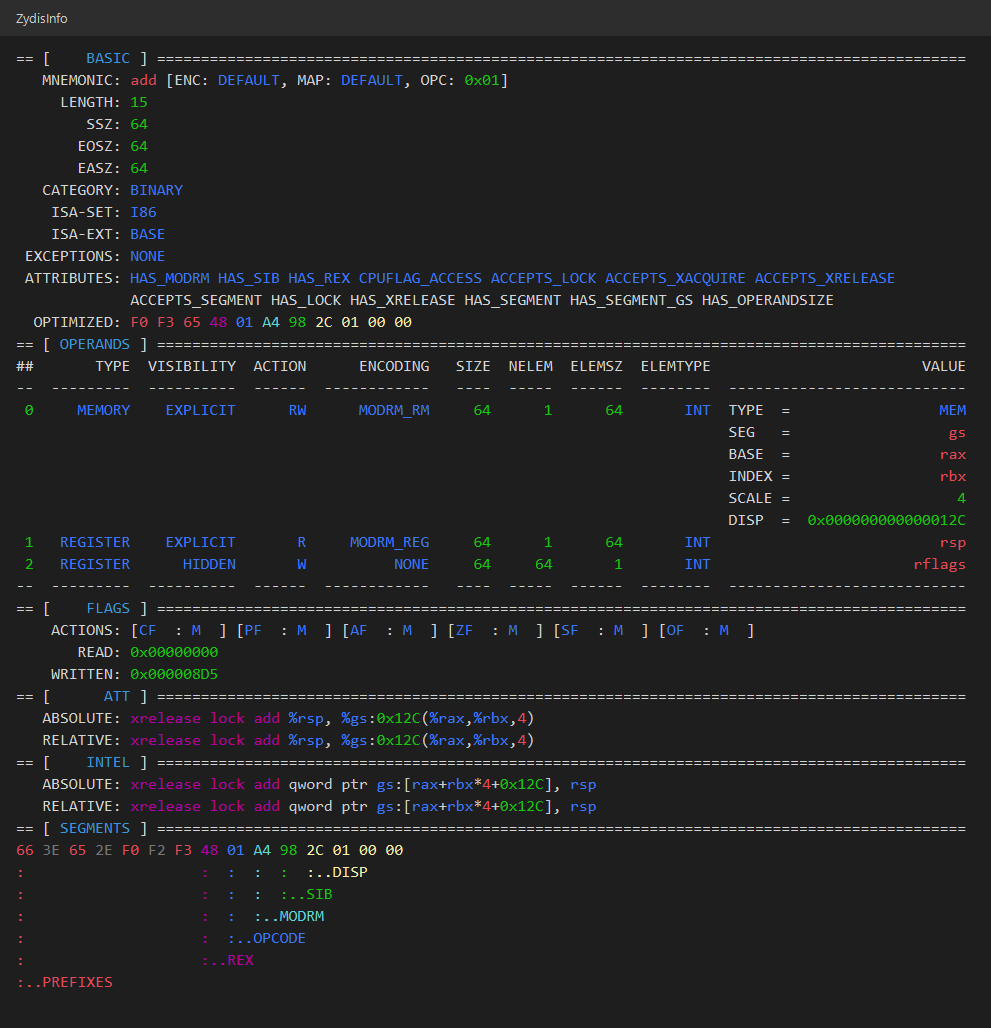
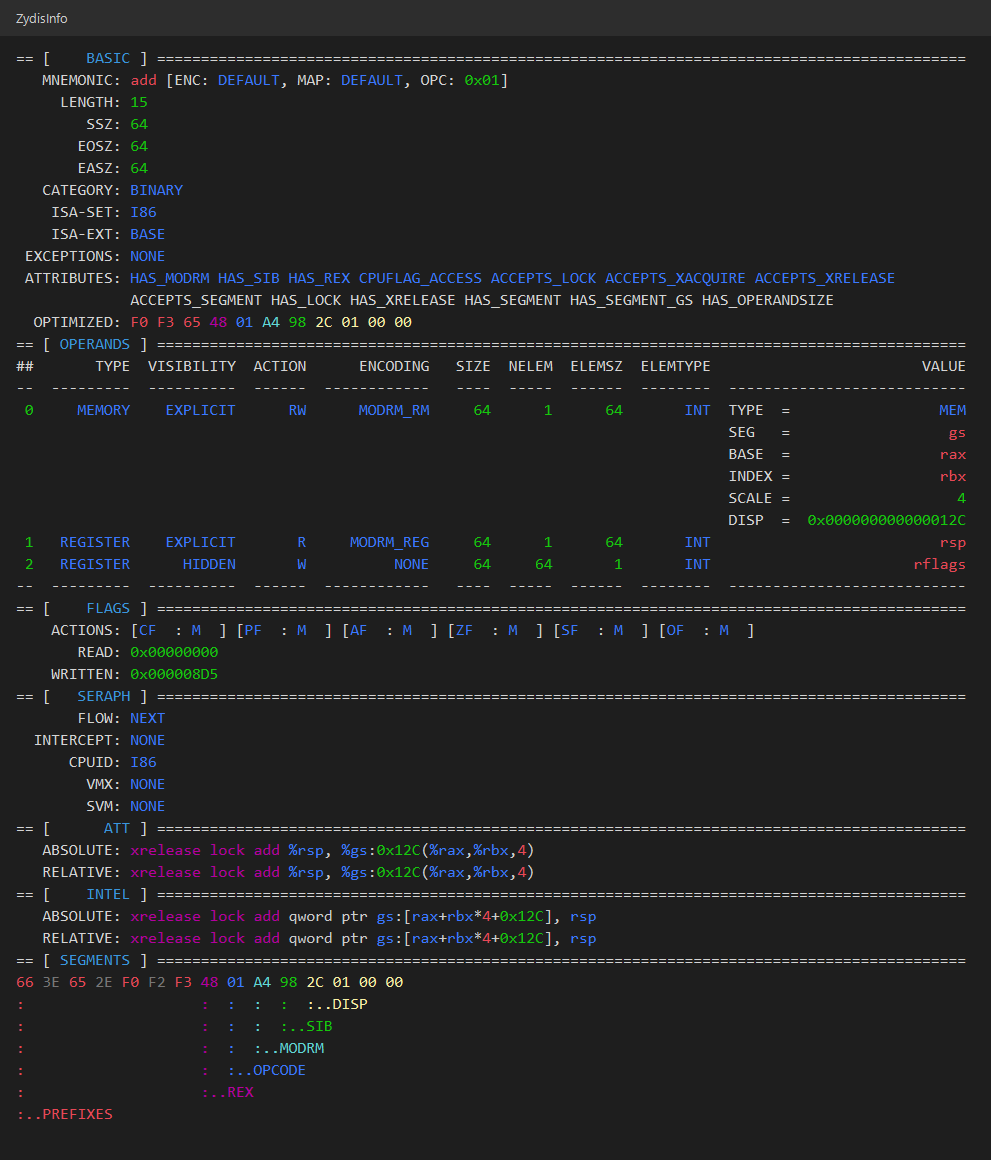
Print Seraph fields in ZydisInfo and drop the workspace notes from the README.
ZydisInfo now has a SERAPH section for flow, condition, intercept, CPUID feature names, and the VM-exit record. The README picture is that tool output.

Changed region(s): [[0.0, 0.0311, 0.9687, 0.965], [0.0303, 0.9339, 0.1211, 0.965], [0.0, 0.0, 0.0605, 0.0311]]

diff --git a/tools/ZydisInfo.c b/tools/ZydisInfo.c
@@ -961,6 +961,106 @@ static void PrintDisassembly(const ZydisDecodedInstruction* instruction,
 }
 
 /**
+ * Prints the optional Seraph fields in the same value style as the rest of the tool.
+ */
+static void PrintSeraph(const ZydisDecodedInstruction* instruction,
+    const ZydisDecodedOperand* operands)
+{
+    static const char* const flow_names[] =
+    {
+        "NEXT", "CONDITIONAL-BRANCH", "UNCONDITIONAL-BRANCH", "INDIRECT-BRANCH",
+        "CALL", "INDIRECT-CALL", "RETURN", "INTERRUPT", "SYSCALL", "XBEGIN",
+        "EXCEPTION", "PRIVILEGED"
+    };
+    static const char* const intercept_names[] =
+    {
+        "NONE", "IO", "MSR", "DESCRIPTOR", "VMX", "SVM"
+    };
+    static const char* const cc_names[] =
+    {
+        "O", "NO", "B", "AE", "E", "NE", "BE", "A",
+        "S", "NS", "P", "NP", "L", "GE", "LE", "G"
+    };
+    static const char* const vmx_controls[] =
+    {
+        "NONE", "UNCONDITIONAL", "CPUID", "HLT", "INVLPG", "RDPMC", "RDTSC",
+        "CR3-LOAD", "CR3-STORE", "CR8-LOAD", "CR8-STORE", "CR-MASK", "MOV-DR",
+        "IO", "MSR", "MONITOR", "MWAIT", "PAUSE", "DESCRIPTOR", "WBINVD",
+        "RDRAND", "RDSEED", "INVPCID", "XSS"
+    };
+    static const char* const svm_controls[] =
+    {
+        "NONE", "INTERCEPT", "CR", "DR"
+    };
+    ZydisInstructionInfo info;
+    ZydisConditionCodeInfo cc;
+    ZydisCpuidFlag cpuid_flags[ZYDIS_CPUID_FLAG_MAX_COUNT];
+    ZydisVmExit exit_info;
+    ZyanU8 cpuid_count = 0;
+
+    if (ZYAN_FAILED(ZydisGetInstructionInfo(instruction, operands, instruction->operand_count,
+            &info)))
+    {
+        return;
+    }
+
+    PrintSectionHeader("SERAPH");
+    if (info.flow <= ZYDIS_INSTRUCTION_FLOW_PRIVILEGED)
+    {
+        PRINT_VALUE_B("FLOW", "%s", flow_names[info.flow]);
+    }
+    if (info.intercept <= ZYDIS_INSTRUCTION_INTERCEPT_SVM)
+    {
+        PRINT_VALUE_B("INTERCEPT", "%s", intercept_names[info.intercept]);
+    }
+    if (ZYAN_SUCCESS(ZydisGetConditionCode(instruction->mnemonic, &cc)) &&
+        (cc.code <= ZYDIS_CONDITION_CODE_G))
+    {
+        PRINT_VALUE_G("CONDITION", "%s", cc_names[cc.code]);
+    }
+    if (ZYAN_SUCCESS(ZydisGetCpuidFlags(instruction, cpuid_flags, ZYDIS_CPUID_FLAG_MAX_COUNT,
+            &cpuid_count)) && (cpuid_count > 0))
+    {
+        ZyanU8 i;
+
+        PrintValueLabel("CPUID");
+        ZYAN_FPUTS(CVT100_OUT(COLOR_VALUE_B), ZYAN_STDOUT);
+        for (i = 0; i < cpuid_count; ++i)
+        {
+            const char* name = ZydisCpuidFlagGetString(cpuid_flags[i]);
+            ZYAN_PRINTF("%s%s", name ? name : "?", (i + 1 < cpuid_count) ? " " : "");
+        }
+        ZYAN_PUTS(CVT100_OUT(COLOR_DEFAULT));
+    }
+    if (info.fpu_top_written)
+    {
+        PRINT_VALUE_G("FPU-TOP", "%s", "WRITTEN");
+    }
+    if (ZYAN_FAILED(ZydisGetVmExit(instruction, operands, instruction->operand_count, &exit_info)))
+    {
+        return;
+    }
+    if (exit_info.vmx && (exit_info.vmx_control <= ZYDIS_VMX_CONTROL_XSS))
+    {
+        PRINT_VALUE_G("VMX-REASON", "%u", exit_info.vmx_reason);
+        PRINT_VALUE_B("VMX-CTRL", "%s", vmx_controls[exit_info.vmx_control]);
+    }
+    else
+    {
+        PRINT_VALUE_B("VMX", "%s", "NONE");
+    }
+    if (exit_info.svm && (exit_info.svm_control <= ZYDIS_SVM_CONTROL_DR))
+    {
+        PRINT_VALUE_G("SVM-CODE", "0x%X", exit_info.svm_code);
+        PRINT_VALUE_B("SVM-CTRL", "%s", svm_controls[exit_info.svm_control]);
+    }
+    else
+    {
+        PRINT_VALUE_B("SVM", "%s", "NONE");
+    }
+}
+
+/**
  * Dumps basic instruction info.
  *
  * @param   decoder     A pointer to the `ZydisDecoder` instance.
@@ -1213,6 +1313,9 @@ static void PrintInstruction(const ZydisDecoder* decoder,
         ZYAN_PUTS("");
         PrintAPXInfo(instruction);
     }
+
+    ZYAN_PUTS("");
+    PrintSeraph(instruction, operands);
 
     ZYAN_PUTS("");
     PrintDisassembly(instruction, operands, ZYDIS_FORMATTER_STYLE_ATT);

diff --git a/src/CpuidFlags.c b/src/CpuidFlags.c
@@ -289,3 +289,188 @@ ZyanStatus ZydisGetCpuidFlags(const ZydisDecodedInstruction* instruction,
     }
     return ZYAN_STATUS_SUCCESS;
 }
+
+static const char* const ZYDIS_CPUID_FLAG_NAMES[] =
+{
+    "NONE",
+    "ADOX_ADCX",
+    "ADX",
+    "AES",
+    "AMD",
+    "AMD3DNOW",
+    "AMD_INVLPGB",
+    "AMX",
+    "AMX_BF16",
+    "AMX_FP16",
+    "AMX_INT8",
+    "AMX_TILE",
+    "APX_F",
+    "AVX",
+    "AVX2",
+    "AVX2GATHER",
+    "AVX512BW",
+    "AVX512CD",
+    "AVX512DQ",
+    "AVX512ER",
+    "AVX512F",
+    "AVX512PF",
+    "AVX512VL",
+    "AVX512_4FMAPS",
+    "AVX512_4VNNIW",
+    "AVX512_BF16",
+    "AVX512_BITALG",
+    "AVX512_FP16",
+    "AVX512_GFNI",
+    "AVX512_IFMA",
+    "AVX512_VAES",
+    "AVX512_VBMI",
+    "AVX512_VBMI2",
+    "AVX512_VNNI",
+    "AVX512_VP2INTERSECT",
+    "AVX512_VPCLMULQDQ",
+    "AVX512_VPOPCNTDQ",
+    "AVXAES",
+    "AVX_GFNI",
+    "AVX_IFMA",
+    "AVX_NE_CONVERT",
+    "AVX_VNNI",
+    "AVX_VNNI_INT16",
+    "AVX_VNNI_INT8",
+    "BMI1",
+    "BMI2",
+    "CET",
+    "CLDEMOTE",
+    "CLFLUSHOPT",
+    "CLFSH",
+    "CLWB",
+    "CLZERO",
+    "CMOV",
+    "CMPCCXADD",
+    "CMPXCHG16B",
+    "ENQCMD",
+    "F16C",
+    "FAT_NOP",
+    "FCMOV",
+    "FCOMI",
+    "FMA",
+    "FMA4",
+    "FRED",
+    "FXSAVE",
+    "FXSAVE64",
+    "GFNI",
+    "HRESET",
+    "I186",
+    "I286PROTECTED",
+    "I286REAL",
+    "I386",
+    "I486",
+    "I486REAL",
+    "I86",
+    "ICACHE_PREFETCH",
+    "INVPCID",
+    "KEYLOCKER",
+    "KEYLOCKER_WIDE",
+    "KNCE",
+    "KNCJKBR",
+    "KNCSTREAM",
+    "KNCV",
+    "KNC_MISC",
+    "KNC_PF_HINT",
+    "KOPB",
+    "KOPD",
+    "KOPQ",
+    "KOPW",
+    "LAHF",
+    "LKGS",
+    "LONGMODE",
+    "LWP",
+    "LZCNT",
+    "MCOMMIT",
+    "MONITOR",
+    "MONITORX",
+    "MOVBE",
+    "MOVDIR",
+    "MOVDIR64B",
+    "MOVDIRI",
+    "MPX",
+    "MSRLIST",
+    "PADLOCK_ACE",
+    "PADLOCK_PHE",
+    "PADLOCK_PMM",
+    "PADLOCK_RNG",
+    "PAUSE",
+    "PBNDKB",
+    "PCLMULQDQ",
+    "PCOMMIT",
+    "PCONFIG",
+    "PENTIUMMMX",
+    "PENTIUMREAL",
+    "PKU",
+    "POPCNT",
+    "PPRO",
+    "PREFETCHWT1",
+    "PREFETCH_NOP",
+    "PT",
+    "RAO_INT",
+    "RDPID",
+    "RDPMC",
+    "RDPRU",
+    "RDRAND",
+    "RDSEED",
+    "RDTSCP",
+    "RDWRFSGS",
+    "RTM",
+    "SERIALIZE",
+    "SGX",
+    "SGX_ENCLV",
+    "SHA",
+    "SHA512",
+    "SM3",
+    "SM4",
+    "SMAP",
+    "SMX",
+    "SNP",
+    "SSE",
+    "SSE2",
+    "SSE2MMX",
+    "SSE3",
+    "SSE3X87",
+    "SSE4",
+    "SSE42",
+    "SSE4A",
+    "SSEMXCSR",
+    "SSE_PREFETCH",
+    "SSSE3",
+    "SSSE3MMX",
+    "SVM",
+    "TBM",
+    "TDX",
+    "TSX_LDTRK",
+    "UINTR",
+    "USER_MSR",
+    "VAES",
+    "VMFUNC",
+    "VMX",
+    "VPCLMULQDQ",
+    "VTX",
+    "WAITPKG",
+    "WRMSRNS",
+    "X87",
+    "XOP",
+    "XSAVE",
+    "XSAVEC",
+    "XSAVEOPT",
+    "XSAVES",
+};
+
+ZYAN_STATIC_ASSERT((sizeof(ZYDIS_CPUID_FLAG_NAMES) / sizeof(ZYDIS_CPUID_FLAG_NAMES[0])) ==
+    (ZYDIS_CPUID_FLAG_MAX_VALUE + 1));
+
+const char* ZydisCpuidFlagGetString(ZydisCpuidFlag flag)
+{
+    if ((ZyanUSize)flag > ZYDIS_CPUID_FLAG_MAX_VALUE)
+    {
+        return ZYAN_NULL;
+    }
+    return ZYDIS_CPUID_FLAG_NAMES[flag];
+}

diff --git a/include/Zydis/CpuidFlags.h b/include/Zydis/CpuidFlags.h
@@ -240,6 +240,11 @@ typedef enum ZydisCpuidFlag_
 ZYDIS_EXPORT ZyanStatus ZydisGetCpuidFlags(const ZydisDecodedInstruction* instruction,
     ZydisCpuidFlag* flags, ZyanU8 capacity, ZyanU8* count);
 
+/**
+ * Returns the name of a CPUID feature flag, or `ZYAN_NULL` when `flag` is out of range.
+ */
+ZYDIS_EXPORT const char* ZydisCpuidFlagGetString(ZydisCpuidFlag flag);
+
 #ifdef __cplusplus
 }
 #endif

diff --git a/docs/SERAPH_FEATURES.md b/docs/SERAPH_FEATURES.md
@@ -12,7 +12,7 @@ Zydis is the project. New instructions and fixes from zyantific land by merging 
 | opcode-cpuid | done | `ZydisGetEncodingInfo`, `ZydisGetCpuidFlags` | Opcode, opcode map, and ModRM are copied from the decoded instruction. `isa_set` and `isa_ext` come from `instruction->meta`. `ZydisGetCpuidFlags` reports that ISA set as feature names. A 128-bit or 256-bit AVX-512 set also reports `AVX512VL`. Null arguments fail. No CPUID leaf numbers. |
 | condition-code | done | `ZydisGetConditionCode`, `ZydisConditionCodeEvaluate` | `jz`, `setz`, `cmovz`, and `setzuz` are E, taken when ZF is 1. `jnbe` is A. `cmovl` is L. The value matches the Jcc opcode nibble. `jrcxz`, `loop`, `fcmovb`, and `ccmpb` have no condition code. |
 | vm-exit | done | `ZydisGetVmExit` | Separate from instruction info. `CPUID` stays flow `NEXT` and intercept `NONE` there. The exit call reports VMX reason 10 with the CPUID control and SVM code `0x72`. `MOV` from `CR3` is reason 28 with the CR3-store control. `VMCALL` is VMX reason 18. A normal `mov` reports neither vendor. |
-| verbose | done | `ZydisFormatVerbose` | One Intel line for `cpuid` includes `flow next`, `intercept none`, `vmx 10 cpuid`, and `svm 0x72 intercept`. `jz` includes `cc e`. A short buffer is left unchanged. |
+| verbose | done | `ZydisInfo` SERAPH section, `ZydisFormatVerbose` | `ZydisInfo` prints flow, condition, intercept, CPUID feature names, and the VM-exit record in the same value rows as the rest of the tool. `cpuid` is flow `NEXT`, intercept `NONE`, VMX reason 10, SVM `0x72`. `jz` is condition `E`. |
 | fast-formatter | optional | Straight-line formatter | `SeraphBench` times decode and decode-plus-format for Intel, AT&T, MASM, and NASM on one fixed long-mode buffer. The fast formatter stays unwritten until that number shows the formatter is the cost. |
 
 `/seraph-feature` takes one of these ids as `args.feature`.

diff --git a/README.md b/README.md
@@ -40,16 +40,9 @@ ctest --test-dir build -C Release --output-on-failure
 
 Merge upstream into `master`. Do not rebase `master`. After a conflict in `CMakeLists.txt`, `meson.build`, `include/Zydis/Zydis.h`, or `msvc/zydis/Zydis.vcxproj`, keep the upstream lines and the Seraph lines.
 
-Workflows in `.grok/workflows/` rebuild, re-run `ctest`, and push `master` when the prove step can quote a green summary:
+`ZydisInfo` prints a `SERAPH` section in the same rows as the rest of the tool. `cpuid` is flow `NEXT` and intercept `NONE`, with VMX reason 10 and SVM code `0x72`. `jz` adds condition `E` and no VM exit.
 
-- `/seraph-build-test`
-- `/seraph-feature` with `args.feature` set to an id from `docs/SERAPH_FEATURES.md`
-
-Open this folder as its own workspace: `grok --cwd` the `seraph` directory. In T3 Code, add the folder with Ctrl+K → Add Project.
-
-Zydis colors the instruction the same way `ZydisInfo` does: a magenta mnemonic, a blue register, a green address, and a red immediate. The cyan text after the bar is what Seraph adds: flow, condition code, intercept, and the VM-exit record. `mov rax, rcx` has no VM exit. `cpuid` stays unprivileged in the normal report and still shows VMX reason 10 and SVM `0x72` here.
-
-![What Seraph adds](./assets/screenshots/SeraphVerbose.png)
+![ZydisInfo SERAPH section](./assets/screenshots/SeraphVerbose.png)
 
 Same 51-instruction buffer, one second. Yellow is before the decoder lookup inlining. Green is after. Instructions per second:
 
